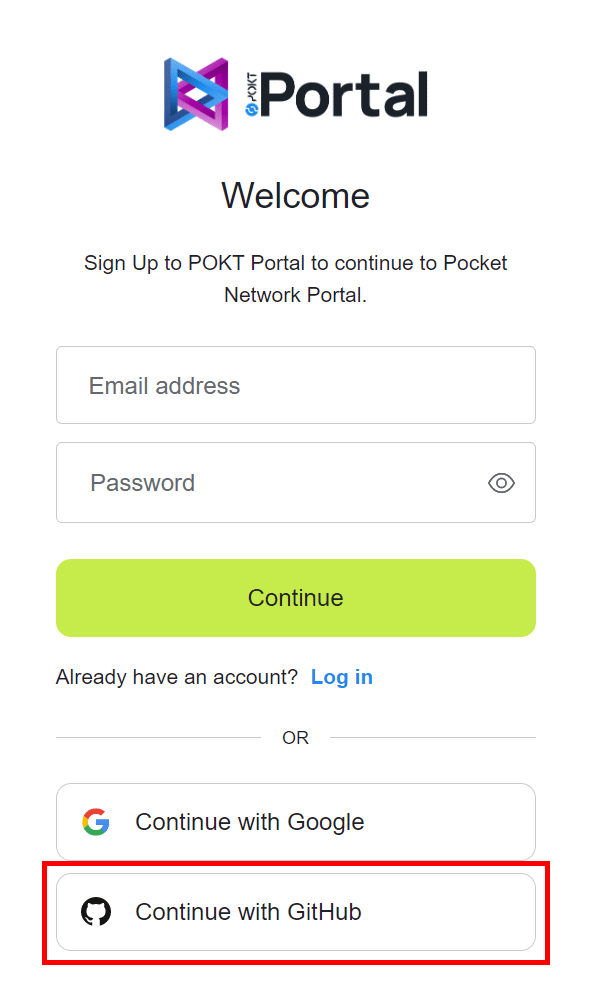
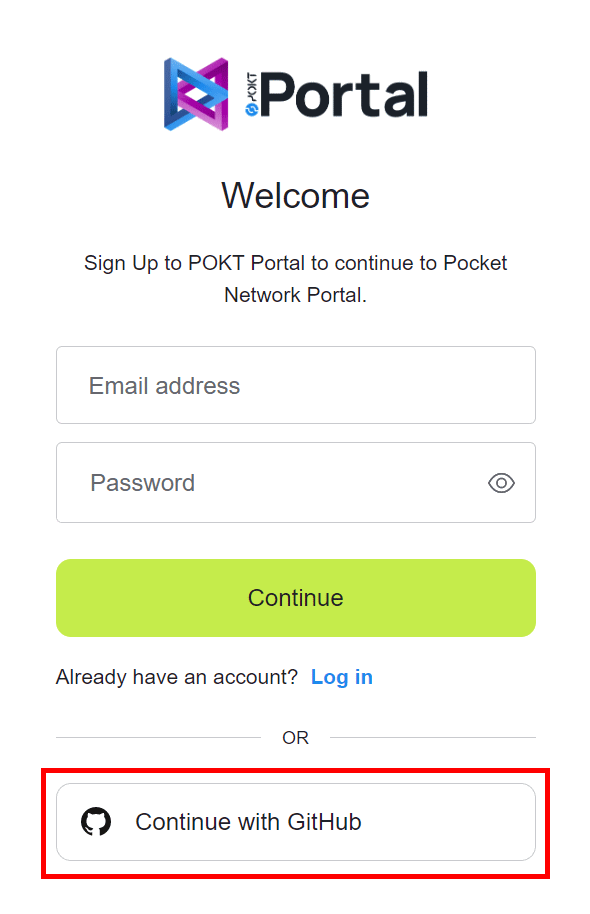
Removes Google as sign-in option for the Portal

diff --git a/use/get-endpoint.md b/use/get-endpoint.md
@@ -8,7 +8,7 @@ The [Pocket Portal](https://www.portal.pokt.network) is a free, browser-based ap
 
 In this way, the Pocket Portal provides similar functionality to more centralized API services, all while retaining the decentralization that Pocket Network is built on.
 
-Through the Pocket Portal, you can get information about your application usage at a glance, along with network usage. uptime metrics and notifications/alerts.
+Through the Pocket Portal, you can get information about your application usage at a glance, along with network usage, uptime metrics and notifications/alerts.
 
 The Portal is free to use up to one million relays per day.
 
@@ -18,7 +18,7 @@ The Portal is free to use up to one million relays per day.
 
 To use the Pocket Portal, you must first create an account.
 
-The Portal accepts three different methods of account creation and authentication: using your email address, your Google Account, or your GitHub account.
+The Portal accepts two different methods of account creation and authentication: using your email address or your GitHub account.
 
 Once you have an account with one method, you can't switch to another login method with that account, so make sure you choose the method that works best for you.
 
@@ -54,24 +54,6 @@ From the main [Pocket Portal](https://www.portal.pokt.network) page:
 
 Continue below at **Exploring the Portal**.
 
-### Sign up with Google
-
-You can log in to the Portal using your existing Google Account.
-
-1. Click **Get started** at the bottom of the page. Alternatively, you can click **Log In** and then click **Sign Up**.
-
-2. Click **Continue with Google**.
-
-   ![](../assets/portal-signup-google.png)
-
-3. On the next screen, click **Accept** to authorize the app to allow access to your Google account.
-
-   ![](../assets/portal-authorize.png)
-
-4. You will then be logged in and taken to the Network Overview page. You will also receive an email confirming your registration.
-
-Continue below at Exploring the Portal.
-
 ### Sign up with GitHub
 
 You can also log in the Portal using your existing GitHub account
@@ -82,11 +64,13 @@ You can also log in the Portal using your existing GitHub account
 
    ![](../assets/portal-signup-github.png)
 
-3. On the next screen, click **Accept** to authorize the app to allow access to your Google account.
+3. On the next screen, click **Accept** to authorize the app to allow access to your GitHub account.
 
    ![](../assets/portal-authorize.png)
 
 4. You will then be logged in and taken to the Network Overview page. You will also receive an email confirming your registration.
+
+Continue below at **Exploring the Portal**.
 
 
 ## Exploring the Portal
